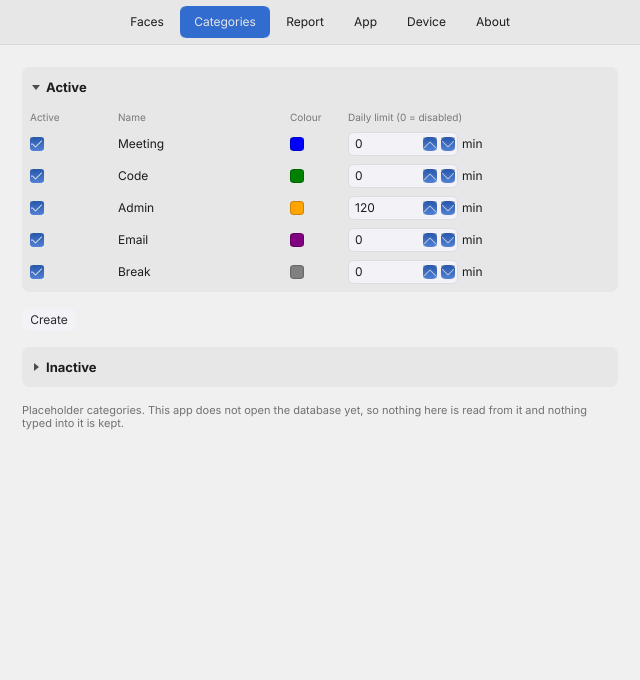
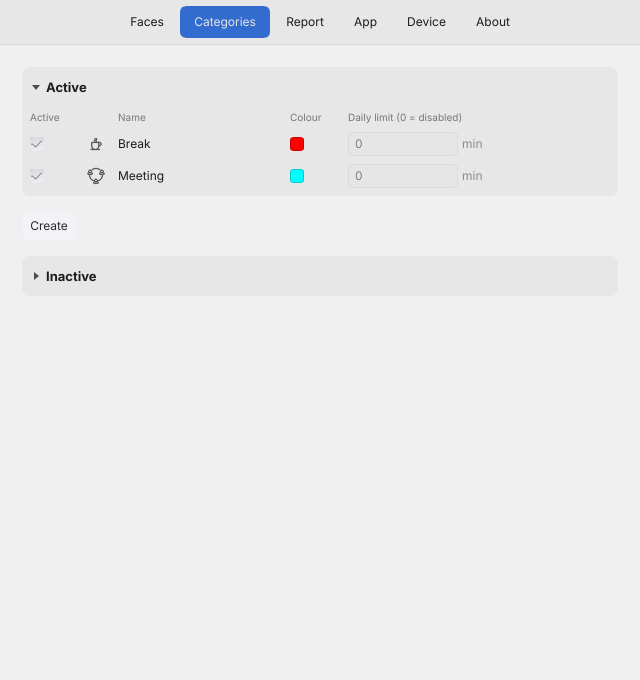
Render the Categories tab from the database, and re-render the Mac set
draw-settings-tabs attaches the Categories tab too when FACET_DATABASE
is set. Against a test database rebuilt from the DDL, only
2-categories.png changed: Break and Meeting with their icons and
colours, both rows frozen because the seeded faces 2 and 8 hold them
locked, Create between the sections and Inactive folded. The other five
are byte-identical to the committed set. compare/ is marked stale for
that one image until Linux re-renders.

diff --git a/crates/facet-ui/examples/draw-settings-tabs.rs b/crates/facet-ui/examples/draw-settings-tabs.rs
@@ -18,9 +18,9 @@
 //!     FACET_TAB_HEIGHT=1200 cargo run -p facet-ui --example draw-settings-tabs
 //!     FACET_DATABASE=path/to/appdata.sqlite cargo run -p facet-ui --example draw-settings-tabs
 //!
-//! FACET_DATABASE fills the Faces tab from that database, which must already exist. Rendering it may
-//! finalise segments an earlier launch left open on an app face, as launching the app does. Without it the
-//! Faces tab draws with no categories.
+//! FACET_DATABASE fills the Faces and Categories tabs from that database, which must already exist. Rendering
+//! it may finalise segments an earlier launch left open on an app face, as launching the app does. Without it
+//! those tabs draw with no categories.
 //!
 //! Writes target/settings-tabs/<n>-<tab>.png, one per tab, numbered from 1 in tab order so a listing sorts the
 //! way the window reads. The default height is the one the window opens at, so
@@ -89,15 +89,20 @@ fn main() -> Result<(), Box<dyn std::error::Error>> {
 
     let width = 640u32;
     let ui = SettingsWindow::new()?;
-    let faces = std::env::var_os("FACET_DATABASE").map(|path| {
+    let tabs = std::env::var_os("FACET_DATABASE").map(|path| {
+        let path: std::path::PathBuf = path.into();
         let notice = facet_ui::notice::Notice::attach(&ui);
-        facet_ui::faces::Faces::attach(&ui, path.into(), Rc::new(None), true, notice)
+        let faces =
+            facet_ui::faces::Faces::attach(&ui, path.clone(), Rc::new(None), true, Rc::clone(&notice));
+        let categories = facet_ui::categories::Categories::attach(&ui, path, Rc::new(None), notice);
+        (faces, categories)
     });
     ui.window().set_size(LogicalSize::new(width as f32, height as f32));
     window.set_size(PhysicalSize::new(width, height));
     ui.show()?;
-    if let Some(faces) = &faces {
+    if let Some((faces, categories)) = &tabs {
         faces.refresh();
+        categories.refresh();
     }
 
     // **Emptied first**, so a tab that is renamed or renumbered does not leave its old file beside the new one

diff --git a/docs/settings-tabs/README.md b/docs/settings-tabs/README.md
@@ -27,7 +27,7 @@ same number means the same tab on both machines and in `compare/`. The example e
 copied in beside the new one. The data directory is
 `~/Library/Application Support/Facet` on the Mac and `~/.local/share/Facet` on Linux.
 
-**The Faces tab is drawn from a freshly built test database**, so both machines render the same rows: the
+**The Faces and Categories tabs are drawn from a freshly built test database**, so both machines render the same rows: the
 seeded Break and Meeting, with their icons, and nothing being timed. Without `FACET_DATABASE` the tab draws
 no categories at all, and a database with anything else in it draws something the other machine cannot
 reproduce.
@@ -35,8 +35,8 @@ reproduce.
 | | |
 |---|---|
 | [`linux/`](linux/) | Linux Mint 22.3, MATE 1.26.1, X11, `x86_64`. Rendered 2026-09-25 on `feature/faceTab` at `b9991f5`, against a clean test database |
-| [`mac/`](mac/) | macOS 26.6.2, Apple silicon, `arm64`. Rendered 2026-09-25 on `feature/faceTab` at `030f2ce`, against a clean test database |
-| [`compare/`](compare/) | One image per tab: Mac, Linux, and the pixels that differ between them. Rebuilt 2026-09-25 from Mac `3c2ac11` and Linux `b9991f5`; every diff panel is empty, and all six PNGs, `1-faces.png` with its rasterised SVG icons included, are byte-identical across the two machines |
+| [`mac/`](mac/) | macOS 26.6.2, Apple silicon, `arm64`. Rendered 2026-09-25 on `feature/catergoryTab` at `e5992ef`, against a clean test database. `2-categories.png` is the Categories tab read from the database; the other five are unchanged |
+| [`compare/`](compare/) | One image per tab: Mac, Linux, and the pixels that differ between them. Rebuilt 2026-09-25 from Mac `3c2ac11` and Linux `b9991f5`; every diff panel is empty, and all six PNGs, `1-faces.png` with its rasterised SVG icons included, are byte-identical across the two machines **Stale for `2-categories.png`** until `linux/` is re-rendered on `feature/catergoryTab` |
 
 **These are Slint's software renderer, not screenshots of the running app.** It draws into a buffer with
 no window server involved, so window chrome and compositing are out of the comparison.
